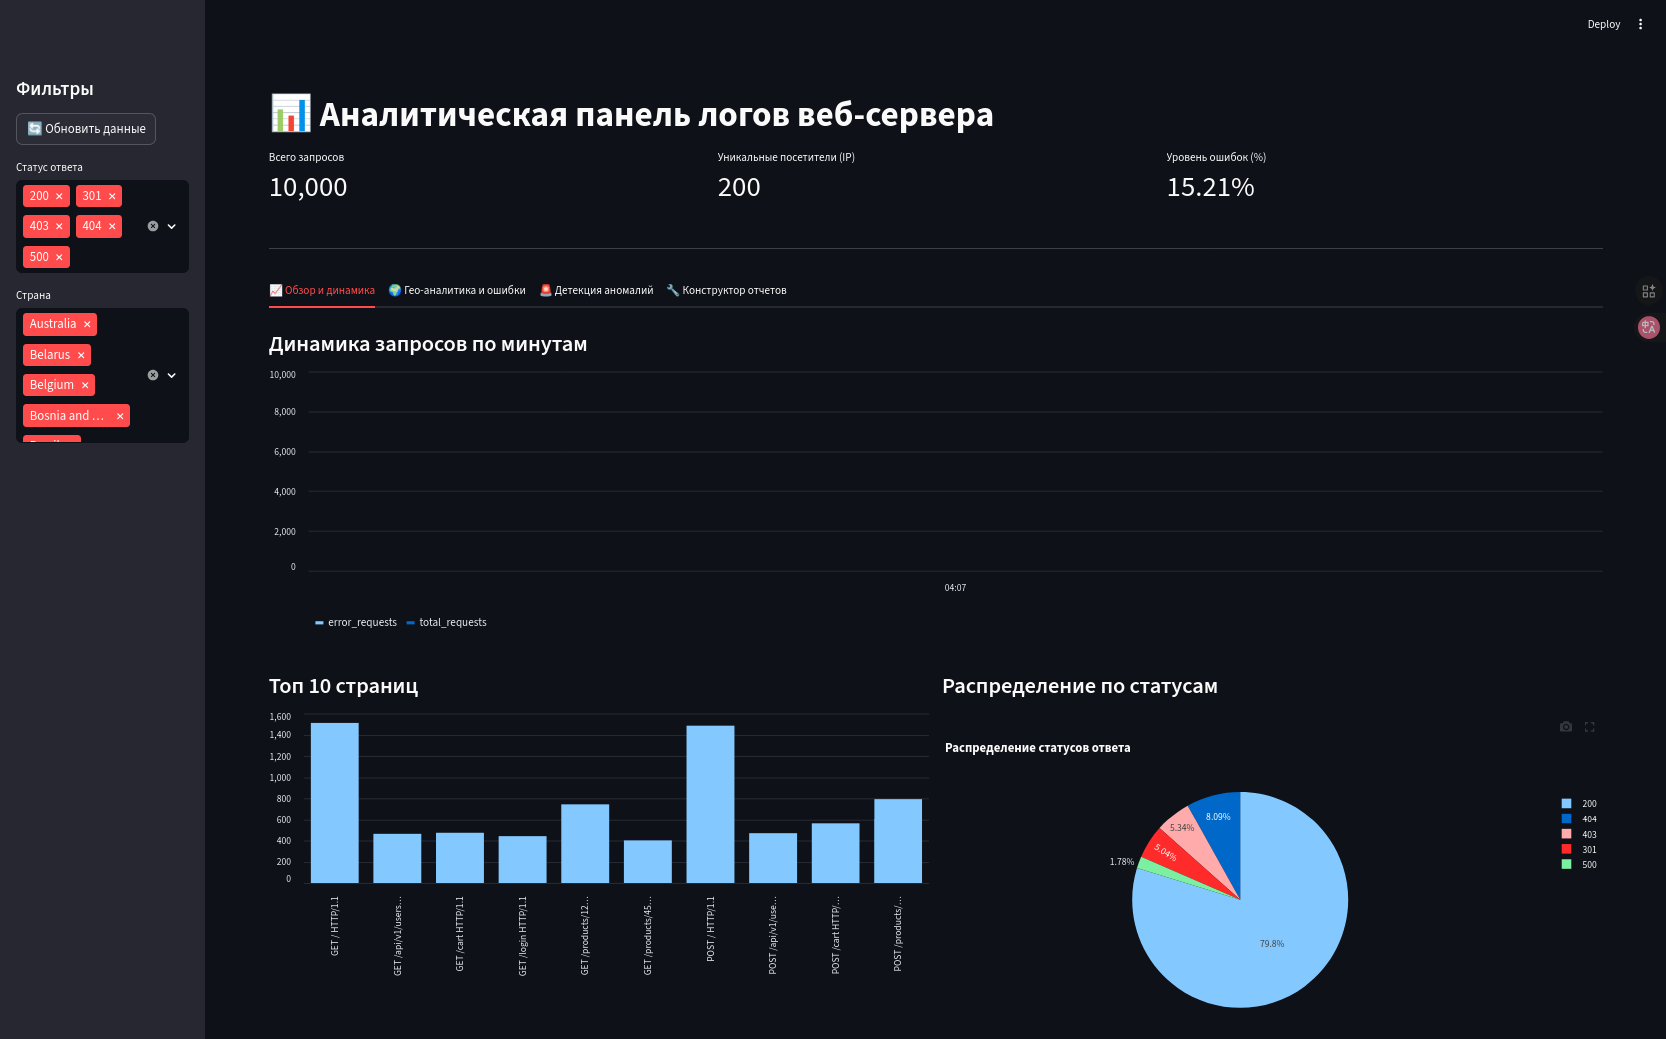
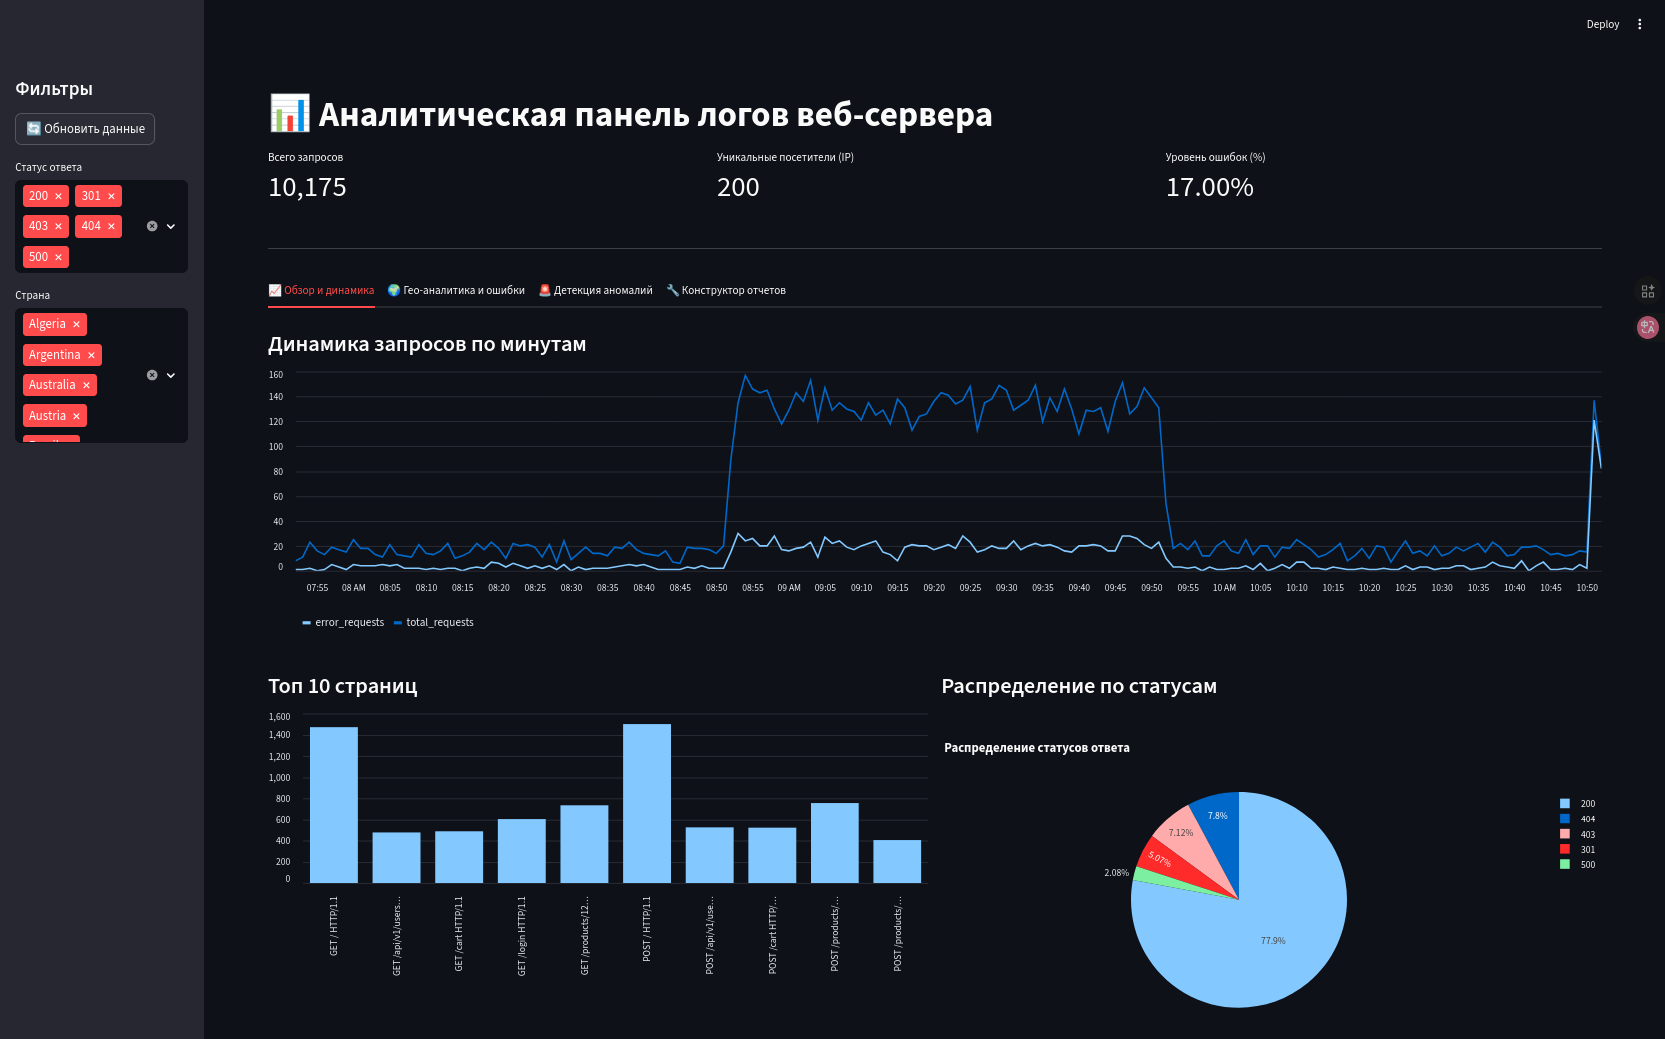
fix/impove: change first image; improvegenerate_logs.py

diff --git a/generate_logs.py b/generate_logs.py
@@ -1,6 +1,6 @@
 import random
 import time
-from datetime import datetime, timezone
+from datetime import datetime, timezone, timedelta
 from faker import Faker
 
 fake = Faker()
@@ -13,49 +13,64 @@ print("Подготовка пулов реалистичных данных..."
 IP_POOL = [fake.ipv4() for _ in range(200)]
 ip_weights = ([0.04] * 10) + ([0.00315] * 190)
 
-
 pages = [
-    "/",                            # Главная страница (самая популярная)
-    "/products/123",                # Популярный товар
-    "/api/v1/users",                # Частый API-запрос
-    "/cart",                        # Корзина
-    "/login",                       # Страница входа
-    "/products/456",                # Другой товар
-    "/checkout",                    # Оформление заказа
-    "/blog/article-1",              # Непопулярная статья в блоге
-    "/contact-us",                  # Контакты
-    "/api/v2/items"                 # Другой API-запрос
+    "/", "/products/123", "/api/v1/users", "/cart", "/login",
+    "/products/456", "/checkout", "/blog/article-1", "/contact-us", "/api/v2/items"
 ]
 page_weights = [0.30, 0.15, 0.10, 0.10, 0.08, 0.08, 0.07, 0.04, 0.04, 0.04]
 
 USER_AGENT_POOL = [fake.user_agent() for _ in range(100)]
-
-
 http_statuses = [200, 301, 404, 500, 403]
-status_weights = [0.8, 0.05, 0.08, 0.02, 0.05] # Сделаем 200 еще более частым
+status_weights = [0.8, 0.05, 0.08, 0.02, 0.05]
 
+print("Настройка временного диапазона для логов...")
+end_time = datetime.now(timezone.utc)
+start_time = end_time - timedelta(hours=3)
+peak_time_start = end_time - timedelta(hours=2)
+peak_time_end = end_time - timedelta(hours=1)
+
+def get_random_timestamp():
+    """Возвращает случайную временную метку, с большей вероятностью в 'часы пик'."""
+    if random.random() < 0.7:
+        ts = random.uniform(peak_time_start.timestamp(), peak_time_end.timestamp())
+    else:
+        ts = random.uniform(start_time.timestamp(), end_time.timestamp())
+    return datetime.fromtimestamp(ts, tz=timezone.utc)
 
 print(f"Генерация {NUM_LOG_LINES} строк логов в файл {LOG_FILE_PATH}...")
+print(f"Временной диапазон: от {start_time.strftime('%H:%M:%S')} до {end_time.strftime('%H:%M:%S')}")
 
 with open(LOG_FILE_PATH, "w") as f:
+    log_entries = []
     for _ in range(NUM_LOG_LINES):
+        log_time = get_random_timestamp()
+        timestamp_str = log_time.strftime('%d/%b/%Y:%H:%M:%S %z')
+        
         ip = random.choices(IP_POOL, weights=ip_weights, k=1)[0]
         page = random.choices(pages, weights=page_weights, k=1)[0]
-        
         user_agent = random.choice(USER_AGENT_POOL)
-        
-        now_aware = datetime.now().replace(tzinfo=timezone.utc)
-        timestamp = now_aware.strftime('%d/%b/%Y:%H:%M:%S %z')
-        
-        method = random.choice(["GET", "POST"]) 
+        method = random.choice(["GET", "POST"])
         protocol = "HTTP/1.1"
         request = f"{method} {page} {protocol}"
-        
         status = random.choices(http_statuses, weights=status_weights, k=1)[0]
         bytes_sent = random.randint(100, 15000)
         referrer = fake.uri()
 
-        log_line = f'{ip} - - [{timestamp}] "{request}" {status} {bytes_sent} "{referrer}" "{user_agent}"\n'
+        log_line = f'{ip} - - [{timestamp_str}] "{request}" {status} {bytes_sent} "{referrer}" "{user_agent}"\n'
+        log_entries.append((log_time, log_line))
+    
+    log_entries.sort(key=lambda x: x[0])
+    
+    for _, log_line in log_entries:
+        f.write(log_line)
+
+    print("Генерация аномальной активности (DDoS-симуляция)...")
+    anomaly_ip = "1.2.3.4"
+    for i in range(200):
+        attack_time = end_time - timedelta(seconds=random.randint(1, 60))
+        timestamp_str = attack_time.strftime('%d/%b/%Y:%H:%M:%S %z')
+        request = "GET /login HTTP/1.1" # Атакуем страницу логина
+        log_line = f'{anomaly_ip} - - [{timestamp_str}] "{request}" 403 150 "{fake.uri()}" "{random.choice(USER_AGENT_POOL)}"\n'
         f.write(log_line)
 
 print("Генерация завершена.")
